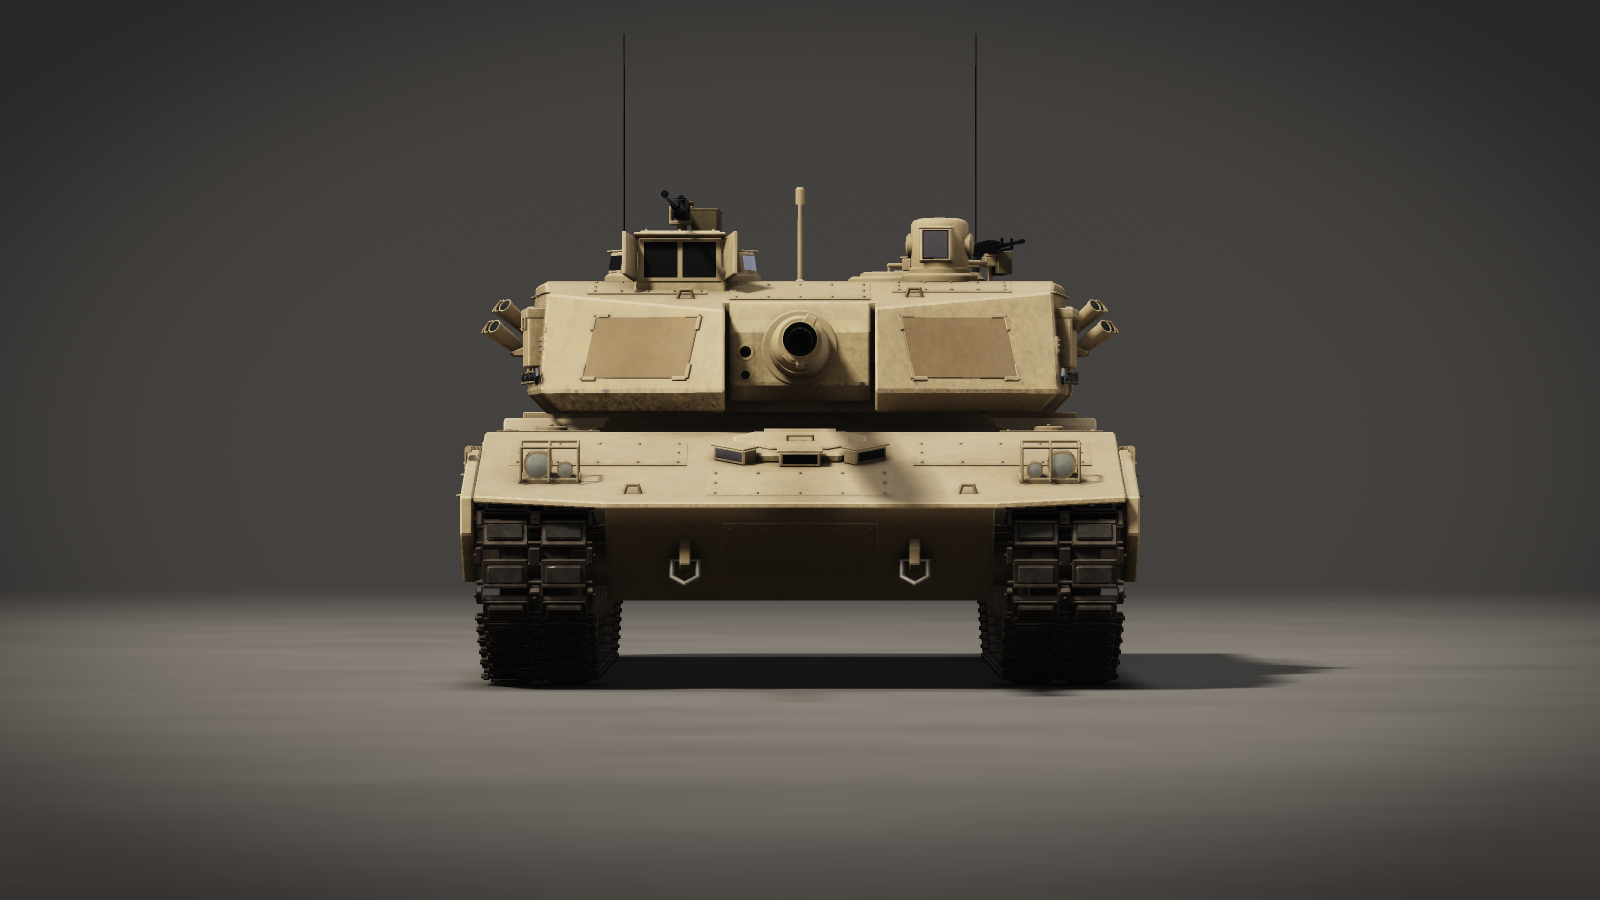
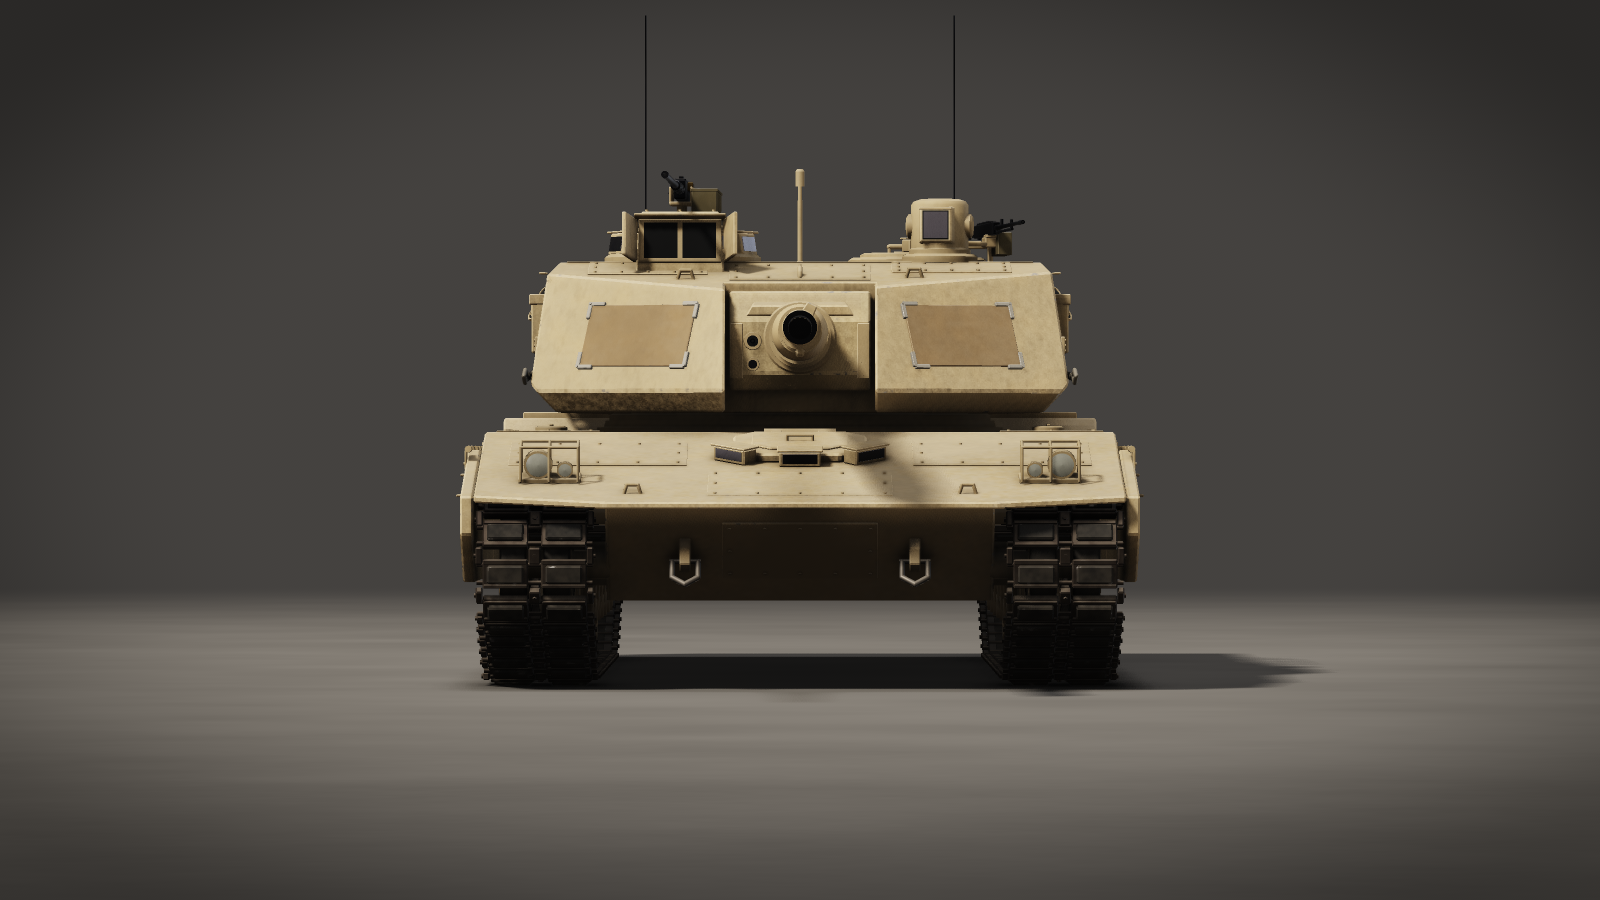
Башня: прямые сужающиеся борта, выше крыша, клиновидный козырёк маски, бронировка ствола, уголки CIP

Changed region(s): [[0.2812, 0.1867, 0.7188, 0.4978], [0.5312, 0.4667, 0.5625, 0.56]]

diff --git a/js/abrams.js b/js/abrams.js
@@ -25,7 +25,7 @@ const CANVAS = { color: [0.47, 0.42, 0.31], rough: 1, metal: 0, dust: 0.9 };
 const CRATE = { color: [0.34, 0.31, 0.22], rough: 0.85, metal: 0, dust: 0.9 };
 
 export const TURRET_POS = [0.45, 1.47, 0];
-export const TRUNNION = [1.05, 0.40, 0];
+export const TRUNNION = [1.05, 0.46, 0];
 
 // ---------- мелкие детали ----------
 function bolt(b, x, y, z, r = 0.012, h = 0.008) { // ось Y
@@ -378,8 +378,8 @@ function buildRunningGear(b) {
 // =====================================================================
 //                                БАШНЯ
 // =====================================================================
-const YW = 0.16, ROOF = 0.79, ROOF_X = 0.55, ROOF_A = 10 * D2R, BOT = 0.04;
-const CHEEK_TILT = 25, SIDE_TILT = 5, MANT_HW = 0.42;
+const YW = 0.16, ROOF = 0.90, ROOF_X = 0.55, ROOF_A = 10 * D2R, BOT = 0.04;
+const CHEEK_TILT = 25, SIDE_TILT = 5, MANT_HW = 0.42, YS = 0.20;
 // стенка через точки плана A,B=(x,z) на высоте y0. tilt>0 — верх завален внутрь, tilt<0 — нижний подрез
 function wall(A, B, y0, tilt) {
   let nx = B[1] - A[1], nz = -(B[0] - A[0]); const l = Math.hypot(nx, nz); nx /= l; nz /= l;
@@ -388,10 +388,11 @@ function wall(A, B, y0, tilt) {
   return plane([A[0], y0, A[1]], [nx * Math.cos(t), Math.sin(t), nz * Math.cos(t)]);
 }
 // План башни на уровне нижней кромки лобовых плит. Правая скула (s=+1) длиннее левой.
-// A–B — лобовая плита скулы, B–C — борт, C–D0 — уступ к кормовой нише, D0–D–E — ниша.
+// A–B — лобовая плита скулы, B–D — борт (одна плоскость, сужается к корме), D–E — скос кормы.
 function plan(s) {
   const cf = s > 0 ? 0.085 : 0;
-  return { A: [1.72 + cf, MANT_HW * s], B: [1.20 + cf * 0.75, 1.46 * s], C: [-0.75, 1.60 * s], D0: [-1.05, 1.30 * s], D: [-2.22, 1.22 * s], E: [-2.34, 1.00 * s] };
+  const zB = 1.52, zD = 1.14, xB = 1.20 + cf * 0.75, xD = -2.22, xC = -0.95;
+  return { A: [1.72 + cf, MANT_HW * s], B: [xB, zB * s], C: [xC, (zB + (zD - zB) * (xB - xC) / (xB - xD)) * s], D: [xD, zD * s], E: [-2.34, 0.94 * s] };
 }
 
 function buildTurret(b) {
@@ -404,9 +405,8 @@ function buildTurret(b) {
     return {
       // лобовая плита: стреловидность в плане + сильный завал назад (в профиль ~30° от вертикали), снизу — короткий подрез
       cheek: wall(p.A, p.B, YW, CHEEK_TILT), cheekLow: wall(p.A, p.B, YW, -38),
-      sfU: wall(p.B, p.C, YW, SIDE_TILT), sfL: wall(p.B, p.C, YW, -45),
-      step: wall(p.C, p.D0, YW, 0),
-      srU: wall(p.D0, p.D, 0.30, SIDE_TILT), srL: wall(p.D0, p.D, 0.30, -45),
+      // борт — одна плоскость от угла скулы до кормы, сужается к корме; снизу скос
+      sU: wall(p.B, p.D, YS, SIDE_TILT), sL: wall(p.B, p.D, YS, -42),
       coU: wall(p.D, p.E, 0.30, 6), coL: wall(p.D, p.E, 0.30, -45),
     };
   };
@@ -414,14 +414,14 @@ function buildTurret(b) {
   // --- скулы (отдельные выпуклые блоки) ---
   b.mat(PAINT());
   for (const [s, P] of [[1, R], [-1, L]]) {
-    b.poly([P.cheek, P.cheekLow, P.sfU, P.sfL, P.step, roofP, roofFront, botF, [0, 0, -s, -MANT_HW], [-1, 0, 0, 1.12]], 0.014);
+    b.poly([P.cheek, P.cheekLow, P.sU, P.sL, roofP, roofFront, botF, [0, 0, -s, -MANT_HW], [-1, 0, 0, 1.12]], 0.014);
   }
   // --- центральный блок за маской (заполняет нишу — никаких сквозных щелей) ---
   b.poly([[1, 0, 0, 1.27], [-1, 0, 0, 1.12], [0, 0, 1, MANT_HW + 0.02], [0, 0, -1, MANT_HW + 0.02], roofP, roofFront, botF], 0.006);
   // --- кормовая ниша ---
   const rearU = plane([-2.34, 0.30, 0], [-Math.cos(6 * D2R), Math.sin(6 * D2R), 0]);
   const rearL = plane([-2.34, 0.30, 0], [-Math.cos(40 * D2R), -Math.sin(40 * D2R), 0]);
-  b.poly([[1, 0, 0, -0.80], R.srU, R.srL, R.coU, R.coL, L.srU, L.srL, L.coU, L.coL, rearU, rearL, roofP, botB], 0.014);
+  b.poly([[1, 0, 0, -1.10], R.sU, R.sL, R.coU, R.coL, L.sU, L.sL, L.coU, L.coL, rearU, rearL, roofP, botB], 0.014);
   // --- основание/погон ---
   b.mat(PAINT_S(-0.03));
   b.at(AX_Y, () => b.lathe([[-0.068, 1.10], [0.03, 1.10], [0.05, 1.06], [0.05, 0]], 72, 30));
@@ -434,12 +434,12 @@ function buildTurret(b) {
     const n = [hn[0] * Math.cos(th), Math.sin(th), hn[2] * Math.cos(th)];
     const v = V.norm(V.sub([0, 1, 0], V.mul(n, n[1])));                    // вверх по плите
     const len = Math.hypot(p.B[0] - p.A[0], p.B[1] - p.A[1]);
-    const o = V.add(V.add([p.A[0], YW, p.A[1]], V.mul(u, len * 0.50)), V.mul(v, 0.265));
+    const o = V.add(V.add([p.A[0], YW, p.A[1]], V.mul(u, len * 0.50)), V.mul(v, 0.34));
     b.at(M.basis(s > 0 ? V.mul(u, -1) : u, v, n, o), () => { // правая тройка для обеих сторон
       const sg = 1; // толщина всегда наружу (ось Z базиса = нормаль плиты)
       b.mat({ color: [0.52, 0.44, 0.33], rough: 0.9, metal: 0, dust: 0.9, bump: 0.5 });
       b.bx(-0.33, 0.33, -0.19, 0.19, 0.0, 0.014 * sg, 0.004);
-      b.mat(PAINT_S(-0.03));
+      b.mat({ color: [0.60, 0.58, 0.54], rough: 0.7, metal: 0.2, dust: 0.6 });
       for (const cx of [-1, 1]) for (const cy of [-1, 1]) {
         b.bx(cx * 0.335 - 0.012, cx * 0.335 + 0.012, cy * 0.195 - cy * 0.045 - 0.045, cy * 0.195 - cy * 0.045 + 0.045, 0, 0.022, 0.003);
         b.bx(cx * 0.335 - cx * 0.045 - 0.045, cx * 0.335 - cx * 0.045 + 0.045, cy * 0.195 - 0.012, cy * 0.195 + 0.012, 0, 0.022, 0.003);
@@ -466,7 +466,7 @@ function buildTurret(b) {
   });
   // шов между плоской и наклонной крышей
   b.mat(PAINT_S(-0.035));
-  b.bx(ROOF_X - 0.012, ROOF_X + 0.012, ROOF - 0.004, ROOF + 0.005, -1.44, 1.44, 0.003);
+  b.bx(ROOF_X - 0.012, ROOF_X + 0.012, ROOF - 0.004, ROOF + 0.005, -1.33, 1.33, 0.003);
 
   // --- командирская башенка (CWS) с 8 перископами ---
   b.at(M.T(-0.30, ROOF, 0.68), () => {
@@ -571,18 +571,18 @@ function buildTurret(b) {
   // --- вышибные панели боеукладки ---
   b.mirrorZ((s) => {
     b.mat(PAINT(s * 0.014));
-    b.bx(-2.16, -1.18, ROOF, ROOF + 0.026, 0.045, 1.02, 0.009);
+    b.bx(-2.16, -1.18, ROOF, ROOF + 0.026, 0.045, 0.96, 0.009);
     b.mat(PAINT_S(-0.02));
-    boltRect(b, -2.115, -1.225, ROOF + 0.026, 0.09, 0.975, 0.13, 0.011);
+    boltRect(b, -2.115, -1.225, ROOF + 0.026, 0.09, 0.915, 0.13, 0.011);
     b.bx(-1.70, -1.62, ROOF + 0.026, ROOF + 0.036, 0.46, 0.62, 0.004);
   });
   b.mat(PAINT_S(-0.035));
-  b.bx(-1.12, -1.09, ROOF - 0.004, ROOF + 0.006, -1.20, 1.20, 0.003);
+  b.bx(-1.12, -1.09, ROOF - 0.004, ROOF + 0.006, -1.10, 1.10, 0.003);
 
   // --- датчик ветра, антенны ---
   b.mat(PAINT_S(-0.03));
   b.at(M.mul(M.T(-2.24, ROOF, 0), AX_Y), () => { b.lathe([[0, 0.04], [0.05, 0.04], [0.07, 0.016], [0.52, 0.013], [0.52, 0.028], [0.61, 0.028], [0.625, 0.018], [0.625, 0]], 12, 30); });
-  b.mirrorZ(() => b.at(M.mul(M.T(-2.22, ROOF, 1.06), AX_Y), () => {
+  b.mirrorZ(() => b.at(M.mul(M.T(-2.22, ROOF, 0.93), AX_Y), () => {
     b.mat(PAINT_S(-0.03));
     b.lathe([[0, 0.055], [0.025, 0.055], [0.04, 0.035], [0.11, 0.03], [0.11, 0.022]], 14, 30);
     b.mat(RUBBER); b.lathe([[0.10, 0.022], [0.19, 0.020], [0.21, 0.010], [0.21, 0.0]], 12, 30);
@@ -598,12 +598,12 @@ function buildTurret(b) {
     const frame = (t, y, off = 0) => {
       const fx = V.norm([Bp[0] - Cp[0], 0, Bp[1] - Cp[1]]);
       let out = [fx[2], 0, -fx[0]]; if (out[2] < 0) out = V.mul(out, -1);
-      const ins = off - (y - YW) * tanS;
+      const ins = off - (y - YS) * tanS;
       const o = [Bp[0] + (Cp[0] - Bp[0]) * t + out[0] * ins, y, Bp[1] + (Cp[1] - Bp[1]) * t + out[2] * ins];
       return M.basis(fx, [0, 1, 0], out, o);
     };
     // плоский ящик ЗИП в передней части борта
-    b.at(frame(0.36, 0.47, -0.02), () => {
+    b.at(frame(0.36, 0.55, -0.02), () => {
       b.mat(PAINT(0.012));
       b.bx(-0.36, 0.36, -0.17, 0.15, 0, 0.105, 0.010);
       b.mat(PAINT(-0.012));
@@ -622,7 +622,7 @@ function buildTurret(b) {
     {
       const pts = [];
       for (let i = 0; i <= 12; i++) { const t = 0.05 + 0.88 * i / 12; pts.push(M.pt(frame(t, 0.245 + 0.012 * Math.sin(i * 1.3), 0.03), [0, 0, 0])); }
-      b.mat({ color: [0.36, 0.36, 0.37], rough: 0.5, metal: 0.9, dust: 0.5 });
+      b.mat({ color: [0.40, 0.38, 0.34], rough: 0.62, metal: 0.25, dust: 0.75, bump: 0.6 });
       b.push(M.ident()); b.pipe(pts, 0.017, 8); b.pop();
       b.at(frame(0.05, 0.245, 0.03), () => { b.lathe([[-0.02, 0.022], [0.07, 0.022]], 10); b.pipe([[0.07, 0, 0], [0.12, 0.035, 0], [0.17, 0, 0], [0.12, -0.035, 0], [0.07, 0, 0]], 0.014, 8); });
       b.mat(PAINT_S(-0.03));
@@ -631,7 +631,7 @@ function buildTurret(b) {
     // скобы для крепления маскировки вдоль верхней кромки
     for (const t of [0.10, 0.30, 0.52, 0.74, 0.95]) b.at(frame(t, ROOF - 0.07, -0.005), () => handle(b, [-0.035, 0, 0], [0.035, 0, 0], [0, 0, 0.03], 0.006));
     // гранатомёт: в корме борта, на стыке с нишей — прямо перед корзиной
-    b.at(frame(0.84, 0.50, -0.01), () => {
+    b.at(frame(0.84, 0.58, -0.01), () => {
       b.mat(PAINT_S(-0.02));
       b.bx(-0.20, 0.20, -0.135, 0.15, -0.03, 0.05, 0.008);
       b.hull([[-0.19, -0.125, 0.04], [0.19, -0.125, 0.04], [-0.19, -0.06, 0.04], [0.19, -0.06, 0.04], [-0.19, -0.125, 0.13], [0.19, -0.125, 0.13], [-0.19, -0.10, 0.15], [0.19, -0.10, 0.15]], 0.006);
@@ -652,25 +652,25 @@ function buildTurret(b) {
 
   // --- 3-ярусная корзина вокруг кормовой ниши (начинается сразу за гранатомётами) ---
   {
-    const lvl = [0.22, 0.44, 0.66];
-    const half = (y, s) => [[-1.06, y, 1.33 * s], [-1.10, y, 1.60 * s], [-2.40, y, 1.56 * s], [-2.92, y, 1.30 * s]];
+    const lvl = [0.22, 0.49, 0.76];
+    const half = (y, s) => [[-1.02, y, 1.20 * s], [-1.06, y, 1.50 * s], [-2.40, y, 1.48 * s], [-2.92, y, 1.26 * s]];
     const outline = (y) => [...half(y, 1), ...half(y, -1).reverse()];
     b.mat(PAINT_S(-0.025));
     for (const y of lvl) b.pipe(outline(y), 0.0155, 8);
     // стойки
     for (const s of [1, -1]) {
-      for (const [x, z] of [[-1.10, 1.60], [-1.53, 1.587], [-1.97, 1.573], [-2.40, 1.56], [-2.66, 1.43], [-2.92, 1.30]]) b.rod([x, lvl[0], z * s], [x, lvl[2], z * s], 0.013, 6, false);
+      for (const [x, z] of [[-1.06, 1.50], [-1.51, 1.493], [-1.96, 1.487], [-2.40, 1.48], [-2.66, 1.37], [-2.92, 1.26]]) b.rod([x, lvl[0], z * s], [x, lvl[2], z * s], 0.013, 6, false);
       // кронштейны к башне
-      for (const y of lvl) { b.rod([-2.40, y, 1.56 * s], [-2.28, y, 1.10 * s], 0.012, 6); b.rod([-1.75, y, 1.58 * s], [-1.75, y, 1.20 * s], 0.012, 6); }
+      for (const y of lvl) { b.rod([-2.40, y, 1.48 * s], [-2.26, y, 1.00 * s], 0.012, 6); b.rod([-1.75, y, 1.49 * s], [-1.75, y, 1.08 * s], 0.012, 6); }
       // настил боковых корзин
-      for (let i = 0; i < 12; i++) { const x = -1.16 - i * 0.108; b.bx(x - 0.028, x + 0.028, lvl[0] - 0.012, lvl[0] - 0.004, s * 1.20, s * 1.60, 0.002); }
-      b.bx(-2.40, -1.10, lvl[0] - 0.02, lvl[0] - 0.012, s * 1.40 - 0.012, s * 1.40 + 0.012, 0.002);
+      for (let i = 0; i < 12; i++) { const x = -1.12 - i * 0.108; b.bx(x - 0.028, x + 0.028, lvl[0] - 0.012, lvl[0] - 0.004, s * 1.06, s * 1.50, 0.002); }
+      b.bx(-2.40, -1.06, lvl[0] - 0.02, lvl[0] - 0.012, s * 1.33 - 0.012, s * 1.33 + 0.012, 0.002);
     }
-    for (let i = 1; i < 6; i++) { const z = -1.30 + 2.60 * i / 6; b.rod([-2.92, lvl[0], z], [-2.92, lvl[2], z], 0.013, 6, false); }
+    for (let i = 1; i < 6; i++) { const z = -1.26 + 2.52 * i / 6; b.rod([-2.92, lvl[0], z], [-2.92, lvl[2], z], 0.013, 6, false); }
     // настил задней корзины
-    for (let i = 0; i < 6; i++) { const x = -2.40 - i * 0.092; b.bx(x - 0.03, x + 0.03, lvl[0] - 0.012, lvl[0] - 0.004, -1.30, 1.30, 0.002); }
-    for (let i = 0; i <= 8; i++) { const z = -1.26 + 2.52 * i / 8; b.bx(-2.92, -2.32, lvl[0] - 0.02, lvl[0] - 0.012, z - 0.012, z + 0.012, 0.002); }
-    for (const y of [0.33, 0.55]) b.rod([-2.925, y, -1.30], [-2.925, y, 1.30], 0.006, 5, false);
+    for (let i = 0; i < 6; i++) { const x = -2.40 - i * 0.092; b.bx(x - 0.03, x + 0.03, lvl[0] - 0.012, lvl[0] - 0.004, -1.26, 1.26, 0.002); }
+    for (let i = 0; i <= 8; i++) { const z = -1.22 + 2.44 * i / 8; b.bx(-2.92, -2.32, lvl[0] - 0.02, lvl[0] - 0.012, z - 0.012, z + 0.012, 0.002); }
+    for (const y of [0.355, 0.625]) b.rod([-2.925, y, -1.26], [-2.925, y, 1.26], 0.006, 5, false);
     // --- укладка ---
     const Y0 = lvl[0] - 0.004;
     b.mat(CANVAS);
@@ -687,10 +687,10 @@ function buildTurret(b) {
     const BOX2 = { color: [0.40, 0.37, 0.28], rough: 0.8, dust: 0.9 };
     crate(-2.62, -0.50, 3, 0.40, 0.26, 0.60, CRATE);
     crate(-2.60, -1.02, -4, 0.30, 0.19, 0.34, BOX2);
-    crate(-1.42, 1.42, 2, 0.46, 0.24, 0.24, BOX2);
-    crate(-1.98, 1.41, -3, 0.42, 0.30, 0.22, CRATE);
-    crate(-1.50, -1.42, -2, 0.52, 0.22, 0.24, CRATE);
-    crate(-2.08, -1.40, 4, 0.34, 0.19, 0.22, BOX2);
+    crate(-1.40, 1.36, 2, 0.46, 0.24, 0.20, BOX2);
+    crate(-1.98, 1.33, -3, 0.42, 0.30, 0.22, CRATE);
+    crate(-1.46, -1.36, -2, 0.52, 0.22, 0.20, CRATE);
+    crate(-2.08, -1.32, 4, 0.34, 0.19, 0.22, BOX2);
     b.mat(CANVAS);
     b.at(M.mul(M.T(-2.60, Y0, 1.02), M.RY(2 * D2R)), () => b.hull([[-0.2, 0, -0.13], [0.2, 0, -0.13], [-0.2, 0, 0.13], [0.2, 0, 0.13], [-0.18, 0.30, -0.10], [0.18, 0.30, -0.10], [-0.18, 0.30, 0.10], [0.18, 0.30, 0.10], [-0.21, 0.16, -0.14], [0.21, 0.16, -0.14], [-0.21, 0.16, 0.14], [0.21, 0.16, 0.14]], 0.03));
   }
@@ -781,22 +781,39 @@ function buildGun(b) {
     for (const z of [-0.22, 0.22]) b.pipe([[0.10, -0.012, z - 0.035], [0.10, -0.055, z - 0.025], [0.10, -0.055, z + 0.025], [0.10, -0.012, z + 0.035]], 0.009, 6);
     b.pop();
   });
+  // клиновидный козырёк над маской: поднимается к корме выше кромки крыши
+  b.mat(PAINT(0.0));
+  {
+    const sl = Math.atan2(0.17, 0.44);
+    b.poly([plane([0.40, 0.185, 0], [Math.sin(sl), Math.cos(sl), 0]), [1, 0, 0, 0.415], [-1, 0, 0, 0.04], [0, -1, 0, -0.12], [0, 0, 1, HW - 0.02], [0, 0, -1, HW - 0.02],
+      plane([0, 0, HW - 0.02], [0, 0.5, 0.86]), plane([0, 0, -(HW - 0.02)], [0, 0.5, -0.86])], 0.008);
+    // подъёмный крюк
+    b.mat(PAINT_S(-0.03));
+    b.pipe([[0.10, 0.30, 0], [0.07, 0.37, 0], [0.01, 0.40, 0], [-0.04, 0.385, 0]], 0.014, 8);
+    b.bx(0.06, 0.16, 0.27, 0.305, -0.03, 0.03, 0.004);
+  }
+  // колонки болтов по краям лобового листа маски
+  b.mat(PAINT_S(-0.02));
+  for (const z of [-(HW - 0.04), HW - 0.04]) {
+    b.bx(0.415, 0.432, -0.23, 0.08, z - 0.035, z + 0.035, 0.004);
+    for (let i = 0; i < 5; i++) b.at(M.T(0.432, -0.20 + i * 0.065, z), () => b.cyl(0, 0.009, 0.012, 6));
+  }
   // --- бронировка ствола ---
   b.mat(PAINT_S(-0.012));
-  b.lathe([[0.30, 0.215], [0.438, 0.215], [0.448, 0.205], [0.448, 0.172], [0.58, 0.162], [0.66, 0.146], [0.66, 0.10]], 40, 30);
-  for (let i = 0; i < 12; i++) { const a = (i + 0.5) / 12 * Math.PI * 2; b.at(M.T(0.448, Math.cos(a) * 0.189, Math.sin(a) * 0.189), () => b.cyl(0, 0.010, 0.0115, 6)); }
+  b.lathe([[0.30, 0.205], [0.438, 0.205], [0.448, 0.195], [0.448, 0.166], [0.60, 0.160], [0.60, 0.173], [0.645, 0.173], [0.645, 0.152], [0.98, 0.146], [0.98, 0.157], [1.025, 0.157], [1.025, 0.10]], 40, 30);
+  for (let i = 0; i < 12; i++) { const a = (i + 0.5) / 12 * Math.PI * 2; b.at(M.T(0.448, Math.cos(a) * 0.181, Math.sin(a) * 0.181), () => b.cyl(0, 0.010, 0.0105, 6)); }
   // --- амбразуры спаренного пулемёта и вспомогательного прицела (справа от пушки) ---
-  b.at(M.T(0.42, -0.02, 0.305), () => {
+  b.at(M.T(0.42, -0.02, 0.265), () => {
     b.mat(PAINT_S(-0.02)); b.lathe([[-0.01, 0.052], [0.022, 0.048], [0.022, 0.032]], 18, 30);
     b.mat(DARK); b.lathe([[0.004, 0.032], [0.004, 0]], 14);
     b.mat(GUNMETAL); b.lathe([[0.0, 0.015], [0.035, 0.015], [0.035, 0.0075]], 10, 30);
   });
-  b.at(M.T(0.42, -0.15, 0.305), () => {
+  b.at(M.T(0.42, -0.15, 0.265), () => {
     b.mat(PAINT_S(-0.02)); b.lathe([[-0.01, 0.040], [0.016, 0.036], [0.016, 0.025]], 16, 30);
     b.mat(GLASS); b.lathe([[0.008, 0.025], [0.008, 0]], 14);
   });
   b.mat(PAINT_S(-0.02));
-  for (const [y, z] of [[-0.02, -0.305], [-0.15, -0.305]]) b.at(M.T(0.42, y, z), () => b.cyl(0, 0.010, 0.016, 6));
+  for (const [y, z] of [[-0.02, -0.265], [-0.15, -0.265]]) b.at(M.T(0.42, y, z), () => b.cyl(0, 0.010, 0.016, 6));
 
   // --- ствол: термокожух, эжектор, дульный срез ---
   b.mat(PAINT_S(0.0));
